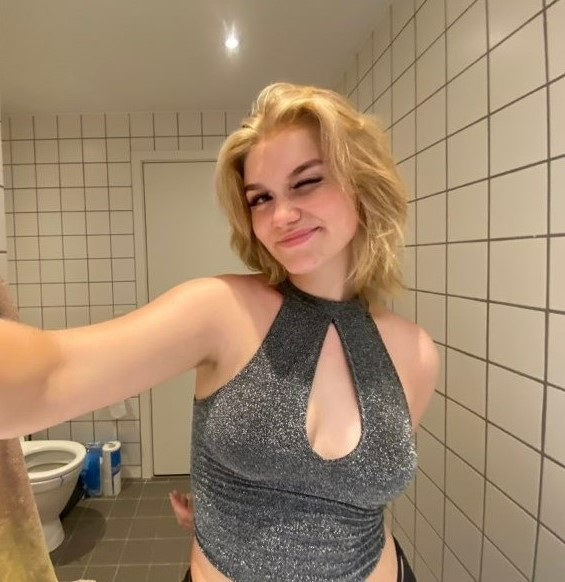
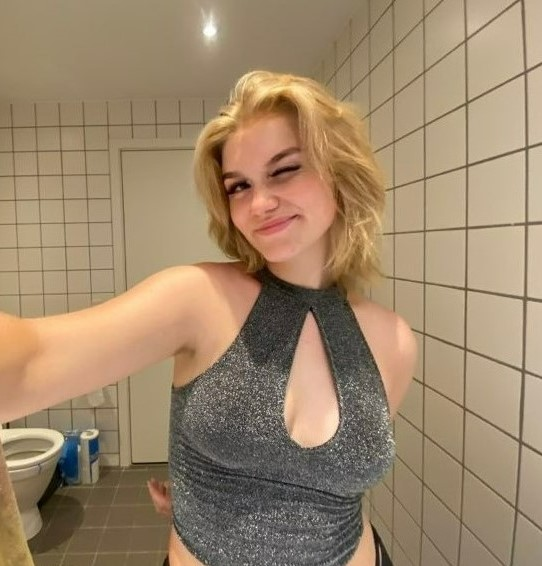
final image change

diff --git a/index.html b/index.html
@@ -14,7 +14,7 @@
 <body>
 
     <Header>
-        <img src="test.jpg" class="img-round" >
+        <img src="imagee.jpg" class="img-round" >
         <h1>Mynte Ziegler Alekssion</h1>
         <p>Elev på det digitale design</p>
     </Header>
